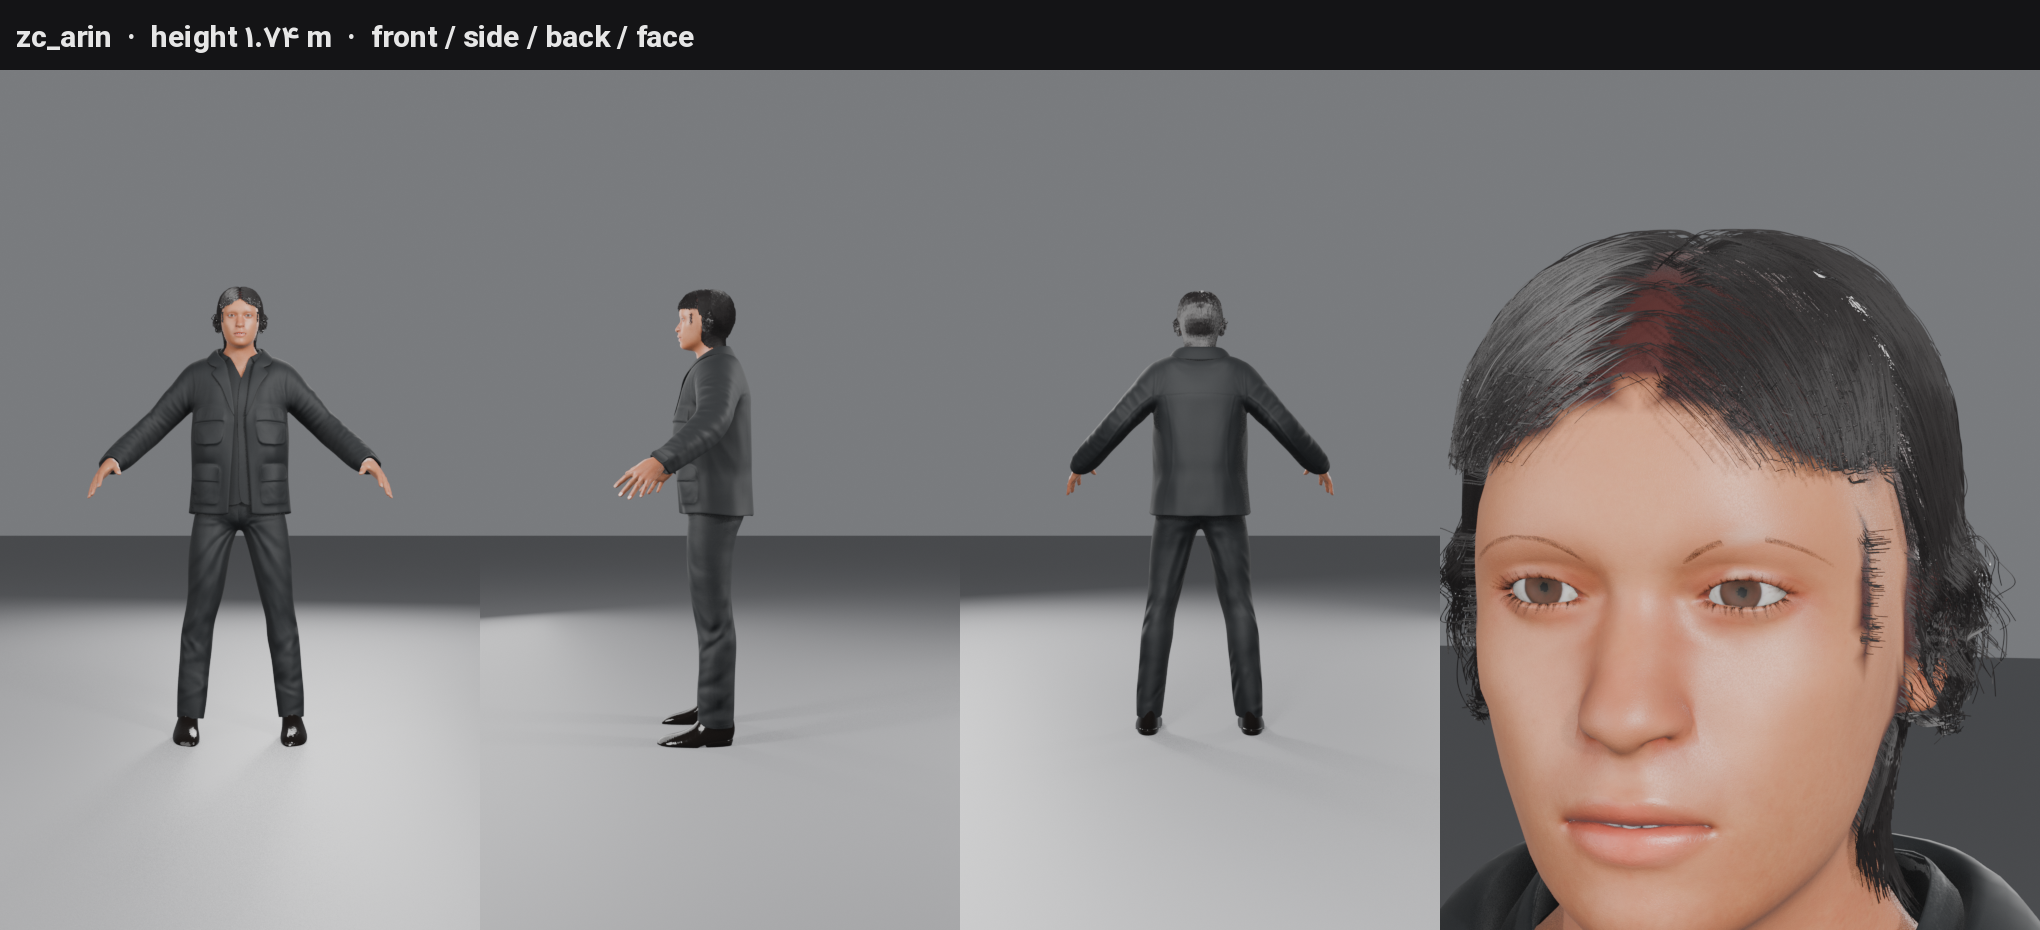
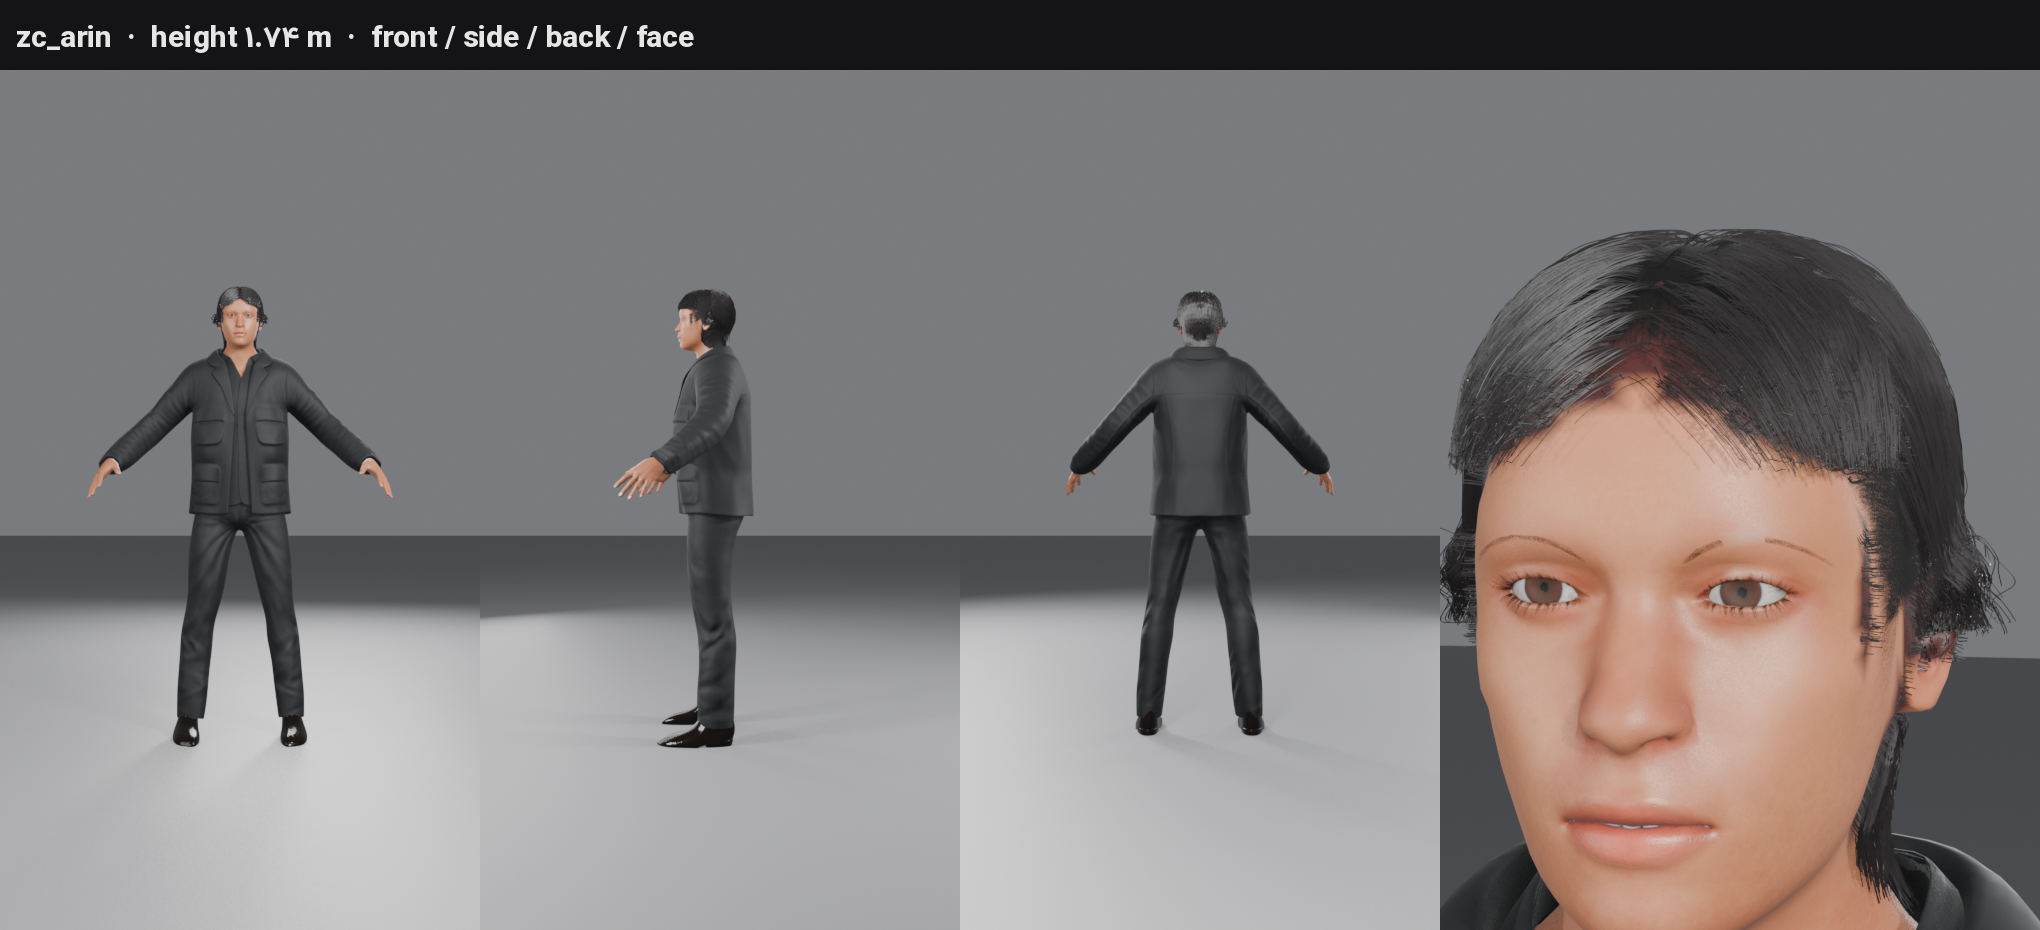
Zombie Center: Mark and Sam sheets OK; Elena coat/hair and Arin hair guards
Claude-Session: https://claude.ai/code/session_0195jcA6aNEjGkEhpvKfuJLv

Changed region(s): [[0.8956, 0.4989, 0.9882, 0.7796], [0.7721, 0.2495, 0.8338, 0.3742], [0.7103, 0.6548, 0.7412, 0.7796]]

diff --git a/blender/zombie_center/zc_cast.py b/blender/zombie_center/zc_cast.py
@@ -28,11 +28,12 @@ ZC = {
     "zc_elena": dict(
         fa="دکتر النا", role="Scientist, 48. Dark-blonde jaw-length bob, white lab coat over grey top, dark trousers.",
         gender=0.0, age=0.68, height=0.5, weight=0.45, muscle=0.35, skin="middleage_caucasian_female", skin_tint=WARM,
-        hair="bob02", hair_set=(0.5, 0.39, 0.25), brow="eyebrow011", brow_col=(0.3, 0.22, 0.14), dark_eyes=True,
+        hair="elvs_wavy_bob", hair_set=(0.5, 0.39, 0.25), brow="eyebrow011", brow_col=(0.3, 0.22, 0.14), dark_eyes=True,
         clothes={"joepal_crude_t-shirt_female": None, "mindfront_female_trousers_1": None,
                  "toigo_ankle_boots_female": (0.1, 0.09, 0.09), "mindfront_cardigan_long_open_front": None},
         flat={"joepal_crude_t-shirt_female": (0.36, 0.37, 0.39), "mindfront_female_trousers_1": (0.12, 0.12, 0.14),
-              "mindfront_cardigan_long_open_front": (0.93, 0.93, 0.92)}),
+              "mindfront_cardigan_long_open_front": (0.93, 0.93, 0.92)},
+        outer=("mindfront_cardigan_long_open_front",)),
     "zc_sara": dict(
         fa="سارا", role="Survivor, 23. Dark-brown hair in a low ponytail, olive field jacket, black jeans, worn boots.",
         gender=0.0, age=0.48, height=0.48, weight=0.42, muscle=0.45, skin="young_caucasian_female2", skin_tint=(0.68, 0.52, 0.4),
@@ -89,6 +90,9 @@ def finish(ch, d):
         zc_look.brow_scar(ch, side=+1)
     if d.get("strand_hair") == "centre_part":
         ch.hair_strands = zc_hair.centre_part_hair(ch)
+    for asset in d.get("outer", ()):                  # outer layer pushed out a few mm: no poke-through
+        for o in ch.parts.get("by_asset", {}).get(asset, []):
+            dm = o.modifiers.new("ZC_Outer", "DISPLACE"); dm.strength = 0.006; dm.mid_level = 0.0
     for o in ch.parts.get("Clothes", []):          # no plastic shoes / clothes
         for ms in o.material_slots:
             m = ms.material

diff --git a/blender/zombie_center/zc_hair.py b/blender/zombie_center/zc_hair.py
@@ -102,7 +102,7 @@ def centre_part_hair(ch, n=20000, seed=1, colour=(0.012, 0.010, 0.010), name=Non
     for p0, nrm in roots:
         fy = (p0.y - front_y) / (back_y - front_y)
         dx = p0.x - cx
-        side = math.copysign(1.0, dx) if abs(dx) > 0.004 else rnd.choice((-1, 1))
+        side = math.copysign(1.0, dx) if abs(dx) > 0.008 else rnd.choice((-1, 1))
         top_region = p0.z > ear_z + 0.06 and abs(dx) < 0.065
         if top_region and fy < 0.5:
             L = 0.095 + 0.02 * rnd.random()          # fringe / top: long, falls to the sides
@@ -147,6 +147,10 @@ def centre_part_hair(ch, n=20000, seed=1, colour=(0.012, 0.010, 0.010), name=Non
                 p = pts[-1] + (p - pts[-1]) * 0.15
                 step *= 0.3
             pts.append(p.copy())
+        for i in range(1, len(pts)):           # hard guard: nothing beside the face, nothing over the eyes
+            q = pts[i]
+            if (abs(q.x - cx) > 0.058 and q.z < ear_z + 0.045) or (fy < 0.45 and abs(q.x - cx) < 0.058 and q.z < brow_z + 0.025):
+                pts[i] = pts[i - 1].copy()
         strands.append(pts)
     bm.free()
 
